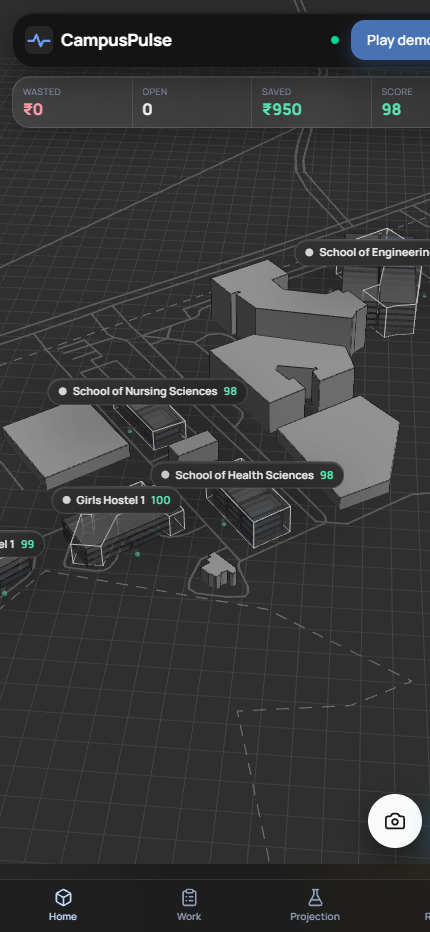
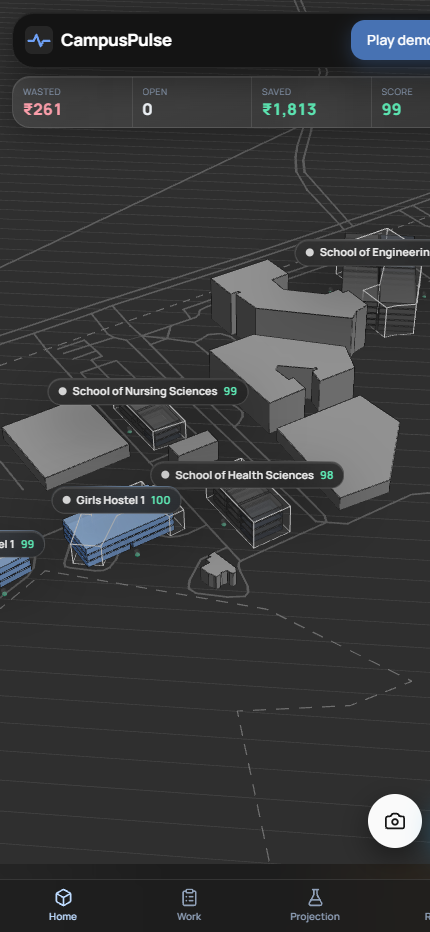
Remove navbar clock; extend twin grid to the horizon

diff --git a/frontend/src/App.jsx b/frontend/src/App.jsx
@@ -24,23 +24,6 @@ const NAV = [
   { to: '/reports', label: 'Report', icon: FileText },
 ]
 
-function Clock() {
-  const clock = useStore((s) => s.snap?.clock)
-  const speed = useStore((s) => s.snap?.speed)
-  const paused = useStore((s) => s.snap?.paused)
-  if (!clock) return null
-  const d = new Date(clock)
-  return (
-    <div className="text-right leading-tight hidden md:block">
-      <div className="font-mono text-sm font-semibold text-neutral-100">{d.toLocaleTimeString('en-IN', { hour: '2-digit', minute: '2-digit' })}</div>
-      <div className="text-[10px] text-neutral-400">
-        {d.toLocaleDateString('en-IN', { weekday: 'short', day: 'numeric', month: 'short' })}
-        {paused ? ' · paused' : speed > 1 ? ` · ${speed}×` : ''}
-      </div>
-    </div>
-  )
-}
-
 const Loading = () => (
   <div className="h-full flex items-center justify-center text-slate-400 gap-2"><Loader2 size={18} className="animate-spin" /> Loading…</div>
 )
@@ -49,7 +32,6 @@ export default function App() {
   const init = useStore((s) => s.init)
   const ready = useStore((s) => !!s.snap)
   const campus = useStore((s) => s.campus)
-  const connected = useStore((s) => s.connected)
   const lastId = useStore((s) => s.snap?.feed?.at(-1)?.id ?? 0)
   const { toggleDemo, togglePhone, phoneOpen, startTour } = useStore()
   const onTwin = useLocation().pathname === '/'
@@ -87,8 +69,6 @@ export default function App() {
           {campus && <span className="hidden xl:inline text-[11px] font-semibold text-neutral-400 bg-white/[0.07] rounded-full px-2 py-0.5">{campus.short_name}</span>}
         </NavLink>
         <div className="ml-auto flex items-center gap-3 shrink-0">
-          <Clock />
-          <span className={`w-2 h-2 rounded-full ${connected ? 'bg-emerald-400' : 'bg-rose-400'}`} title={connected ? 'live' : 'offline'} />
           <button onClick={startTour} title="Play the 2-minute guided demo"
             className="flex items-center gap-2.5 rounded-[14px] bg-[#4772b3] hover:bg-[#3f67a3] text-white font-semibold text-sm pl-4 pr-1.5 py-1.5 md:py-2 transition shadow-[0_6px_18px_rgba(71,114,179,0.35)]">
             <span>Play demo</span>

diff --git a/frontend/src/components/Twin3D.jsx b/frontend/src/components/Twin3D.jsx
@@ -165,12 +165,14 @@ export default function Twin3D() {
         <color attach="background" args={[VP.bg]} />
         <hemisphereLight args={['#ffffff', '#3a3a3a', 1.1]} />
         <directionalLight position={[300, 500, 200]} intensity={1.4} />
-        <OrbitControls ref={controls} target={target} maxPolarAngle={Math.PI / 2.15} minDistance={40} maxDistance={1600} makeDefault />
+        <OrbitControls ref={controls} target={target} maxPolarAngle={Math.PI / 2.15} minDistance={40} maxDistance={2600} makeDefault />
         <mesh rotation={FLAT} position={[0, -0.05, 0]}>
           <planeGeometry args={[8000, 8000]} />
           <meshBasicMaterial color={VP.floor} />
         </mesh>
-        <gridHelper args={[1500, 75, VP.grid, VP.grid2]} position={[0, 0.02, 0]} />
+        <gridHelper args={[8000, 400, VP.grid, VP.grid2]} position={[0, 0.02, 0]} />
+        {/* the grid runs to the horizon and fades into the background */}
+        <fog attach="fog" args={[VP.bg, 1400, 4200]} />
         <StaticMap campus={campus} />
         {campus.rooms.map((r) => (
           <RoomBox key={r.id} room={r} status={snap.rooms[r.id]?.status || 'idle'} selected={selected === r.id}
